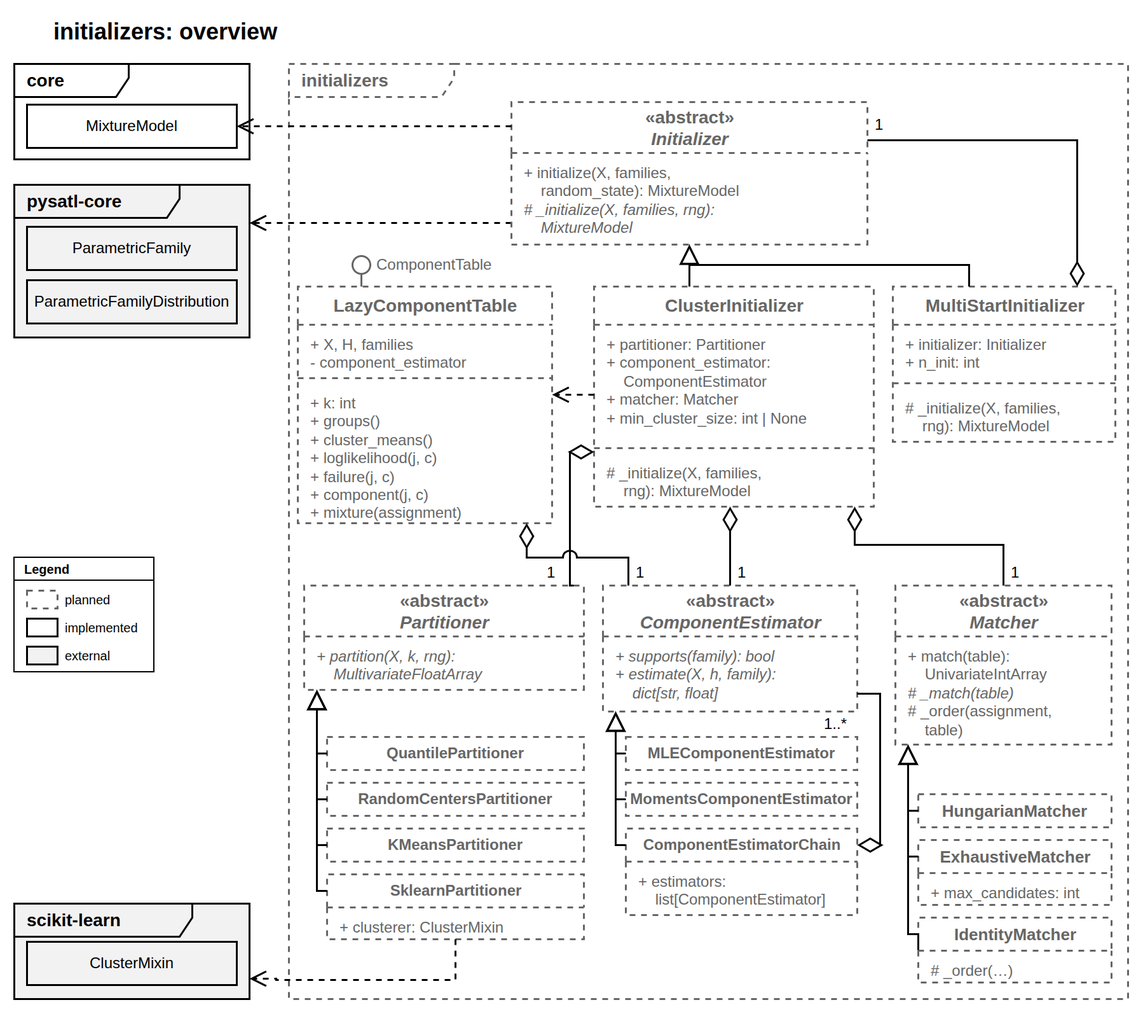
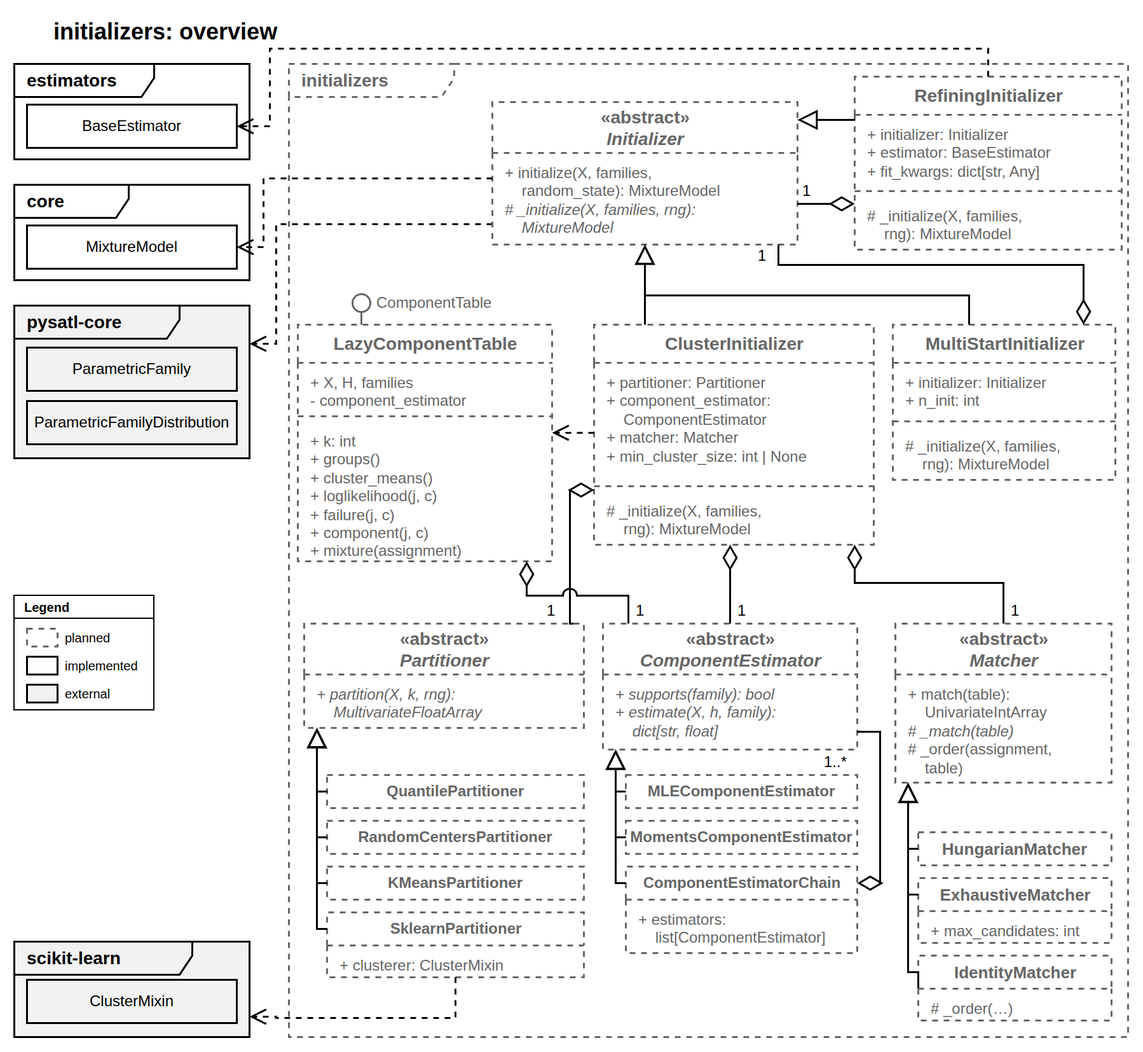
docs: add RefiningInitializer for multistart by the estimator result

diff --git a/docs/source/design/modules/initializers/initializers.md b/docs/source/design/modules/initializers/initializers.md
@@ -25,10 +25,19 @@ start = MultiStartInitializer(initializer, n_init=10).initialize(X, [normal, nor
 result = EM(...).fit(X, start)
 ```
 
+Здесь лучший из 10 запусков выбирается по правдоподобию стартовой смеси. Чтобы выбирать по итогу оценщика смеси, каждый старт сначала доводят оценщиком в `RefiningInitializer`, см. {ref}`«Уточнение оценщиком смеси» <init-refining>`:
+
+```python
+short_em = EM(breakpointers=[StepBreakpointer(20)], pruners=[], optimizer=ScipyNelderMead())
+refined = RefiningInitializer(initializer, short_em)
+start = MultiStartInitializer(refined, n_init=10).initialize(X, [normal, normal, expon], random_state=42)
+result = EM(...).fit(X, start)
+```
+
 Слово «оценщик» в этом документе всегда уточняется:
 
 - **оценщик смеси** — `EM`, `ECM`, `ECME` из `estimators`, оценивают всю смесь;
-- **оценщик компоненты** — `ComponentEstimator` и его реализации в `initializers`, оценивают параметры одной компоненты по кластеру. Поэтому и поле `ClusterInitializer` называется `component_estimator`, а ошибка — `ComponentEstimationError`: просто `estimator` у будущих инициализаторов вроде emEM будет оценщиком смеси.
+- **оценщик компоненты** — `ComponentEstimator` и его реализации в `initializers`, оценивают параметры одной компоненты по кластеру. Поэтому и поле `ClusterInitializer` называется `component_estimator`, а ошибка — `ComponentEstimationError`: поле `estimator` у `RefiningInitializer` — оценщик смеси.
 
 Типы массивов берутся из `pysatl_mpest.typings`: выборка `X` и столбец `h` — `UnivariateFloatArray`, матрица разбиения `H` — `MultivariateFloatArray`, перестановка `assignment` — `UnivariateIntArray`.
 
@@ -52,7 +61,7 @@ result = EM(...).fit(X, start)
 
 - Модуль зависит от `core`, `pysatl-core` и `scipy`. k-means берётся из `scipy.cluster.vq.kmeans2`, а не пишется свой.
 - scikit-learn — необязательная зависимость. Он нужен только `SklearnPartitioner` и ставится отдельно: `pip install pysatl-mpest[sklearn]`. Без него остальной модуль работает. В dev-зависимостях он есть, чтобы тесты `SklearnPartitioner` запускались всегда.
-- От `estimators` и `optimizers` модуль не зависит, и `estimators` не зависит от него.
+- От `estimators` зависит только `RefiningInitializer`, и только от базового класса `BaseEstimator`: конкретный оценщик смеси передаёт пользователь. `estimators` от `initializers` не зависит, так что зависимость односторонняя. От `optimizers` модуль не зависит.
 - Будущий `structure_selection` будет выдавать именно `families`, так что цепочка выглядит как «`structure_selection` → `initializers` → `estimators`».
 
 ### Граница с `estimators`
@@ -61,6 +70,7 @@ result = EM(...).fit(X, start)
 
 - **Инициализатор даёт дешёвую стартовую точку.** Без итераций и без численной оптимизации, только оценки в явном виде.
 - **Точное совместное уточнение всей смеси — работа `estimators`.** Инициализатор оценивает компоненты по отдельным кластерам; точность смеси даст EM, запущенный из полученной смеси. Исключение — семейства, у которых носитель зависит от параметров, см. «Ограничения».
+- **`RefiningInitializer` границу не нарушает.** Сам он не итерирует: он вызывает готовый оценщик смеси из `estimators` и нужен только затем, чтобы мультистарт сравнивал запуски по итогу оценщика.
 
 Новое в инициализаторе по сравнению с EM — только две вещи: получить ответственности, когда параметров ещё нет, и сопоставить полученные кластеры с семействами.
 
@@ -71,6 +81,7 @@ result = EM(...).fit(X, start)
 - `initializer.py` — абстрактный `Initializer`, публичный интерфейс модуля: общий для всех `initialize` с проверками входа и результата и абстрактный `_initialize`.
 - `cluster_initializer.py` — `ClusterInitializer`: инициализация по схеме «разбиение → сопоставление → оценка».
 - `multi_start.py` — `MultiStartInitializer`, мультистарт поверх любого `Initializer`.
+- `refining.py` — `RefiningInitializer`: старт от другого инициализатора, доведённый оценщиком смеси.
 - `partitioner.py`, `partitioners/` — абстрактный `Partitioner` и реализации `KMeansPartitioner`, `SklearnPartitioner`, `QuantilePartitioner`, `RandomCentersPartitioner`, см. [«Разбиение»](partitioners/partitioners.md).
 - `component_estimator.py`, `component_estimators/` — абстрактный `ComponentEstimator`, реализации `MLEComponentEstimator`, `MomentsComponentEstimator` и составной `ComponentEstimatorChain`, см. [«Оценка параметров компоненты»](component_estimators/component_estimators.md).
 - `_dispatch.py` — свой диспетчер формул по ключу семейства, см. {ref}`«Реестр формул» <init-formula-registry>`.
@@ -104,7 +115,7 @@ result = EM(...).fit(X, start)
 
 | Часть | Первая версия | Позже |
 | --- | --- | --- |
-| Инициализаторы и таблица | `ClusterInitializer`, `MultiStartInitializer`, `ComponentTable`, `LazyComponentTable` | — |
+| Инициализаторы и таблица | `ClusterInitializer`, `MultiStartInitializer`, `RefiningInitializer`, `ComponentTable`, `LazyComponentTable` | — |
 | Способы разбиения | `KMeansPartitioner`, `QuantilePartitioner`, `RandomCentersPartitioner`, `SklearnPartitioner` | — |
 | Оценщики компоненты | `MLEComponentEstimator` с формулами для трёх семейств | `MomentsComponentEstimator` и `ComponentEstimatorChain` — с первым семейством, у которого нет MLE в явном виде, но есть моменты (например, `Gamma` или `Weibull`) |
 | Сопоставители | `HungarianMatcher`, `IdentityMatcher` | `ExhaustiveMatcher` — с первым примером, где `HungarianMatcher` выбирает плохую раздачу |
@@ -115,9 +126,10 @@ result = EM(...).fit(X, start)
 
 [Исходник диаграммы классов](diagrams/initializers.drawio "Overview")
 
-- `Initializer` — минимальный интерфейс. Публичный `initialize(X, families, random_state=None) -> MixtureModel` у него один на все реализации и помечен `@final`: он приводит `X`, делает общие проверки, создаёт генератор, вызывает абстрактный `_initialize(X, families, rng)` и проверяет результат. Реализации пишут только `_initialize`. Схема «кластеры → оценка» — одна из реализаций, а не обязательная для всех. Позже рядом могут появиться инициализаторы другого устройства, например emEM — несколько коротких запусков EM и выбор лучшего. Такой инициализатор будет зависеть от `estimators`, и зависимость останется односторонней.
+- `Initializer` — минимальный интерфейс. Публичный `initialize(X, families, random_state=None) -> MixtureModel` у него один на все реализации и помечен `@final`: он приводит `X`, делает общие проверки, создаёт генератор, вызывает абстрактный `_initialize(X, families, rng)` и проверяет результат. Реализации пишут только `_initialize`. Схема «кластеры → оценка» — одна из реализаций, а не обязательная для всех.
 - `ClusterInitializer` — единственный кластерный инициализатор с тремя заменяемыми ролями. Фасадов под отдельные способы разбиения нет: разные способы — это разные `Partitioner`. k-means без новых зависимостей даёт `KMeansPartitioner`, а любой кластеризатор scikit-learn подключается через один `SklearnPartitioner`.
 - `MultiStartInitializer` — тоже `Initializer` и содержит другой `Initializer`. Это обёртка: она работает с любым инициализатором, а не только с кластерным.
+- `RefiningInitializer` — такая же обёртка, но вокруг одного запуска: старт от вложенного `Initializer` она доводит оценщиком смеси `BaseEstimator` из `estimators`. Это единственная связь модуля с `estimators`, на рисунке — пунктирная зависимость от пакета.
 - Роли `ClusterInitializer` получает в конструкторе и не владеет ими: один объект роли можно отдать нескольким инициализаторам. Поэтому на рисунке это агрегация, а не композиция.
 - Под каждой ролью — её реализации с аргументами конструктора; у реализаций без полей аргументов нет. `SklearnPartitioner` принимает кластеризатор типа `ClusterMixin` — базового класса кластеризаторов scikit-learn.
 - `ComponentEstimatorChain` сам является `ComponentEstimator` и содержит список других оценщиков компоненты `estimators`.
@@ -387,6 +399,8 @@ $$
 | Смесь не покрывает часть выборки | `InitializationError` с примерами точек | Проверка результата в общем `Initializer.initialize` |
 | Инициализатор вернул не `k` компонент или не в порядке `families` | `ValueError` | Проверка результата в общем `Initializer.initialize`; это ошибка в коде инициализатора |
 | Все запуски мультистарта неудачны | `InitializationError`, причина последнего запуска в `__cause__` | `MultiStartInitializer` |
+| `fit_kwargs` не подходят к сигнатуре `estimator.fit`: неизвестное имя или повтор `X`, `mixture` | `TypeError` | Конструктор `RefiningInitializer` |
+| Оценщик смеси вернул меньше `k` компонент | `InitializationError` | `RefiningInitializer` после `estimator.fit` |
 
 ### Мультистарт
 
@@ -398,7 +412,26 @@ $$
 - **Ошибки отдельных запусков.** Если запуск упал с `InitializationError`, например на вырожденном кластере, обёртка пропускает его. Другие ошибки она не ловит, см. «Ошибки». Ошибку она бросает, только если упали все запуски, и прикладывает причину последнего. Так мультистарт заодно закрывает редкие вырожденные разбиения.
 - **Пропущенные запуски не молчат.** Если упал хотя бы один запуск, но не все, обёртка выдаёт `RuntimeWarning` вида «3 из 10 запусков не удались; последняя причина: кластер 2 из 3 точек, `min_cluster_size` равен 4» и возвращает лучшую смесь как обычно. Иначе при 9 упавших из 10 пользователь думал бы, что лучший старт выбран из 10. `RuntimeWarning`, а не `UserWarning`: так `estimators` сообщают о событиях во время работы.
 - **С детерминированным инициализатором** (например, с `QuantilePartitioner`) мультистарт бесполезен: все запуски одинаковы.
-- **Критерий — правдоподобие стартовой смеси,** а не результат EM. Это дёшево, но лучший старт не обязательно приводит к лучшему итогу. Критерий не ограничен сверху и тянется к узким кластерам; от них защищают численный порог таблицы и `min_cluster_size`, см. «Вырожденные кластеры». Вариант «прогнать каждого кандидата несколькими итерациями EM» (emEM) — отдельный будущий инициализатор.
+- **Критерий — правдоподобие того, что вернул вложенный инициализатор.** У `ClusterInitializer` это стартовая смесь: дёшево, но лучший старт не обязательно приводит к лучшему итогу. Критерий не ограничен сверху и тянется к узким кластерам; от них защищают численный порог таблицы и `min_cluster_size`, см. «Вырожденные кластеры». Чтобы сравнивать запуски по итогу оценщика смеси, вложенным инициализатором ставят `RefiningInitializer`, см. ниже.
+
+(init-refining)=
+### Уточнение оценщиком смеси
+
+[Исходник схемы уточнения](diagrams/initializers.drawio "Sequence: refining")
+
+`RefiningInitializer(initializer, estimator, fit_kwargs=None)` — `Initializer`, у которого `_initialize(X, families, rng)` получает старт `initializer.initialize(X, families, random_state=rng)` и возвращает `estimator.fit(X, start, **fit_kwargs)`. Сам по себе это один запуск «старт → оценщик смеси». Мультистарт по итогу оценщика (требование INIT-02) — это `MultiStartInitializer` вокруг него:
+
+- **несколько итераций на каждый старт (emEM):** оценщик с коротким остановом, например `StepBreakpointer(20)`; лучшего кандидата потом доводят полным `EM`, как в примере из «Задачи»;
+- **полный прогон на каждый старт:** оценщик с обычным остановом; лучший запуск — уже итоговая смесь.
+
+`MultiStartInitializer` при этом не меняется: он сравнивает `loglikelihood(X)` того, что вернул вложенный инициализатор, то есть смеси после оценщика. Отдельного фасада «мультистарт + оценщик» нет: он повторил бы `spawn`, пропуск неудачных запусков и предупреждения из `MultiStartInitializer`, а его сигнатура `fit(X, families, random_state)` не подошла бы ни к `Initializer`, ни к `BaseEstimator`. Если собирать композицию руками неудобно, фасад можно добавить позже как функцию в одну строку поверх неё.
+
+- **Аргументы `fit`.** `fit_kwargs` передаются в `estimator.fit` как есть: `parameter_groups` и `once_in_iterations` у `ECM`, индексы стратегий у `ECME`. Конструктор копирует словарь и сразу проверяет его вызовом `inspect.signature(estimator.fit).bind(X, mixture, **fit_kwargs)` с заглушками вместо `X` и `mixture`: неизвестное имя или повтор `X`, `mixture` дают `TypeError` при создании, а не на первом запуске мультистарта. Номера компонент в этих аргументах совпадают с номерами `families`: компонента `j` старта — из `families[j]`, это проверяет общий `initialize`, см. {ref}`«Выход: порядок компонент» <init-output-order>`.
+- **Удаление компонент.** Если у оценщика есть pruners, например `PriorThresholdPruner`, он может вернуть меньше `k` компонент. Общая проверка результата сочла бы это ошибкой в коде (`ValueError`), и мультистарт упал бы целиком. Поэтому `RefiningInitializer` сам сверяет число компонент и бросает `InitializationError` «оценщик вернул 2 компоненты из 3»: другой старт может сохранить все, и мультистарт такой запуск пропускает.
+- **Ошибки.** `InitializationError` вложенного инициализатора не перехватывается и доходит до мультистарта как есть. Ошибки самого оценщика смеси пробрасываются без перехвата, как и все ошибки, кроме `InitializationError`, см. «Ошибки».
+- **Случайность.** Генератор `rng` уходит только во вложенный инициализатор: оценщики смеси детерминированы и генератора не принимают.
+- **Цена.** Каждый запуск мультистарта — полный вызов оценщика смеси, поэтому `n_init` запусков стоят в `n_init` раз дороже одного `fit`. Запуски независимы и могут идти параллельно, см. «Мультистарт».
+- **Критерий тянется к вырожденным решениям** сильнее, чем на старте, см. «Ограничения».
 
 ## Как расширить
 
@@ -424,6 +457,7 @@ $$
 - **Формулы оценки регистрируются по параметризации.** У `Normal` их четыре (`meanStd`, `meanVar`, `meanPrec`, `exponential`). В `pysatl-core` есть перевод значений параметров в базовую параметризацию, `transform_to_base_parametrization`, но не перевод семейства с фиксированными параметрами: фиксированный параметр одной параметризации может не соответствовать никакому набору фиксированных параметров другой. Поэтому формулы `meanStd` для `meanVar` не переиспользовать.
   - `normal.view(parametrization_name="meanVar")` с цепочкой по умолчанию даст `NotImplementedError` на проверке входа, пока для `meanVar` не зарегистрированы свои формулы.
   - Когда формулы появятся, `normal` и `normal.view(parametrization_name="meanVar")` будут разными семействами, хотя это одна модель: ключ семейства по той же причине включает параметризацию. Смесь от этого не портится: у таких семейств одинаковые $\ell_{jc}$, и любая раздача между ними даёт ту же смесь. Цена — лишние оценки в таблице и не нормализованный порядок этих компонент.
+- **Мультистарт по итогу оценщика смеси тянется к вырожденным решениям.** Правдоподобие смеси не ограничено сверху, а EM может сжать компоненту на паре близких точек: `sigma` уменьшается, правдоподобие растёт, и именно такой запуск мультистарт выберет как лучший. На старте от этого защищают численный порог таблицы и `min_cluster_size`, а после оценщика — только порог M-шага `NUMERICAL_TOLERANCE`: ниже него `sigma` не обновляется, поэтому правдоподобие хоть и не уходит в бесконечность, но может стать очень большим. Своей защиты в `initializers` нет, это задача M-шага, см. «Отложено».
 - **Сопоставление оптимально только относительно оценок выбранного способа:** оба критерия считаются в точке оценки `ComponentEstimator`, а не в максимуме правдоподобия.
 - **Число вариантов у `ExhaustiveMatcher` растёт комбинаторно:** при многих разных семействах он неприменим.
 - **Семейство без формул в явном виде пока инициализировать нельзя:** численного способа оценки нет, он отложен.
@@ -446,6 +480,7 @@ $$
 | Сопоставители первой версии | `HungarianMatcher` по умолчанию и `IdentityMatcher` для способов разбиения, знающих семейства. Отдельного сопоставителя «слева направо» нет: при необходимости это несколько строк в `_match` пользовательского сопоставителя |
 | Вырожденные кластеры | Способ разбиения и `validate_partition` проверяют структуру разбиения, `evaluate_pair` — нижнюю границу данных, конечность, ограничения и ширину по квартилям (больше $10^{-6} \cdot \operatorname{std}(X)$), оценщик компоненты — свои требования к данным. Временно ещё пороги M-шага у `Normal` и `Exponential`. `min_cluster_size` по умолчанию $2p$ точек, $p$ — наибольшее число свободных параметров. Никаких подстановок, повторы через мультистарт |
 | Мультистарт | Обёртка `MultiStartInitializer` поверх любого `Initializer`; о пропущенных запусках — `RuntimeWarning` |
+| Мультистарт по итогу оценщика смеси | Обёртка `RefiningInitializer(initializer, estimator, fit_kwargs)` доводит старт оценщиком смеси; `MultiStartInitializer` вокруг неё выбирает лучший запуск по итогу. Отдельного фасада нет. `fit_kwargs` проверяются в конструкторе через `inspect.signature(...).bind`; меньше `k` компонент после оценщика — `InitializationError` |
 | Ошибки | `InitializationError` для неудачного разбиения и наследник `ComponentEstimationError` для пары, которую нельзя оценить. Невозможная пара не обрывает сопоставление, а исключается из раздач; ловятся только эти два типа. `InitializationError` наследует `Exception` |
 | Состояния пары | Оценена; не покрывает кластер (компонента есть, $\ell_{jc} = -\infty$); не оценена (компоненты нет). `HungarianMatcher` запрещает оба последних, остальные сопоставители пропускают «не покрывает», годность смеси решает проверка результата |
 | Таблица компонент | Протокол `ComponentTable` (`k`, `groups`, `cluster_means`, `loglikelihood`, `failure`) — всё, что видит сопоставитель; реализация `LazyComponentTable` — ленивый кэш, общий для сопоставления и сборки: каждая пара «семейство — кластер» оценивается не больше одного раза при любом сопоставителе. Оценку и проверки пары делает чистая `evaluate_pair`, смесь собирает таблица |
@@ -469,5 +504,7 @@ $$
 - **Мягкое разбиение.** При нём почти каждая точка имеет вес в каждом кластере, поэтому нужно заново определить: какой вес считать принадлежностью к кластеру, размер кластера для проверок и `min_cluster_size`, носитель и невозможные пары, границы `ContinuousUniform`. Сигнатура `estimate(X, h, family)` останется, но контракт `h` придётся расширить с маски на дробные веса.
 - **Способ оценки по L-моментам.** Устойчивее к выбросам, подходит для GEV, Gumbel, Pareto, но строится по порядковым статистикам и требует решить, как работать с мягким разбиением.
 - **Ускорение сопоставления подвыборкой**, см. {ref}`«Ускорение» <init-speedup>`.
+- **Возмущённые старты.** INIT-02 допускает старты «случайно сгенерированные или возмущённые»; случайные дают `RandomCentersPartitioner` и `KMeansPartitioner`. Инициализатор, который случайно сдвигает параметры готовой смеси, — когда понадобится.
+- **Регуляризация дисперсии в M-шаге**, аналог `reg_covar` из scikit-learn: к оценке дисперсии на каждом M-шаге прибавляется малая константа, поэтому правдоподобие ограничено сверху и мультистарт по итогу оценщика не выбирает вырожденные компоненты. Цена — небольшое смещение оценок и абсолютный порог в единицах данных. Это изменение в `estimators`, а не в `initializers`.
 - **Подменяемая таблица компонент.** Если появится вторая реализация, например ускоренная по подвыборке, `ClusterInitializer` получит параметр `table_factory` со значением по умолчанию `LazyComponentTable`, а для его нужд — протокол `AssemblingTable(ComponentTable)` с `component` и `mixture`. Изменение не ломает ни сопоставители, ни существующие вызовы.
 - **Общий диспетчер в `core`** ([#52](https://github.com/PySATL/pysatl-mpest/issues/52)). `_dispatch.py` повторяет `FamilyDispatch` из `estimators` с разницей в одном: откуда берётся ключ. Общий диспетчер с параметром «как получить ключ» переносится в `core` отдельной задачей, до реализации модуля или вместе с ней; общие с M-шагом формулы — позже, см. {ref}`«Реестр формул» <init-formula-registry>`.

diff --git a/docs/source/design/architecture.md b/docs/source/design/architecture.md
@@ -9,7 +9,7 @@
 - [`estimators`](../api/estimators/index.rst) принимает выборку и модель, а `estimators.iterative` обновляет веса и параметры модели по шагам. При численной оптимизации конвейер обращается к `optimizers`.
 - [`optimizers`](../api/optimizers/index.rst) минимизирует переданную целевую функцию, используя методы Нелдера — Мида и Пауэлла из SciPy. Модель смеси и численные оптимизаторы независимы друг от друга.
 
-На схеме пунктиром обозначены запланированные модули. `initializers` подбирает начальные параметры, `structure_selection` определяет число компонент и их семейства, а `estimators.direct` отведён под неитерационные оценщики.
+На схеме пунктиром обозначены запланированные модули. `initializers` подбирает начальные параметры; от `estimators` он зависит, чтобы мультистарт мог сравнивать запуски по итогу оценщика смеси. `structure_selection` определяет число компонент и их семейства, а `estimators.direct` отведён под неитерационные оценщики.
 
 (internal-structure)=
 ## Внутреннее устройство
